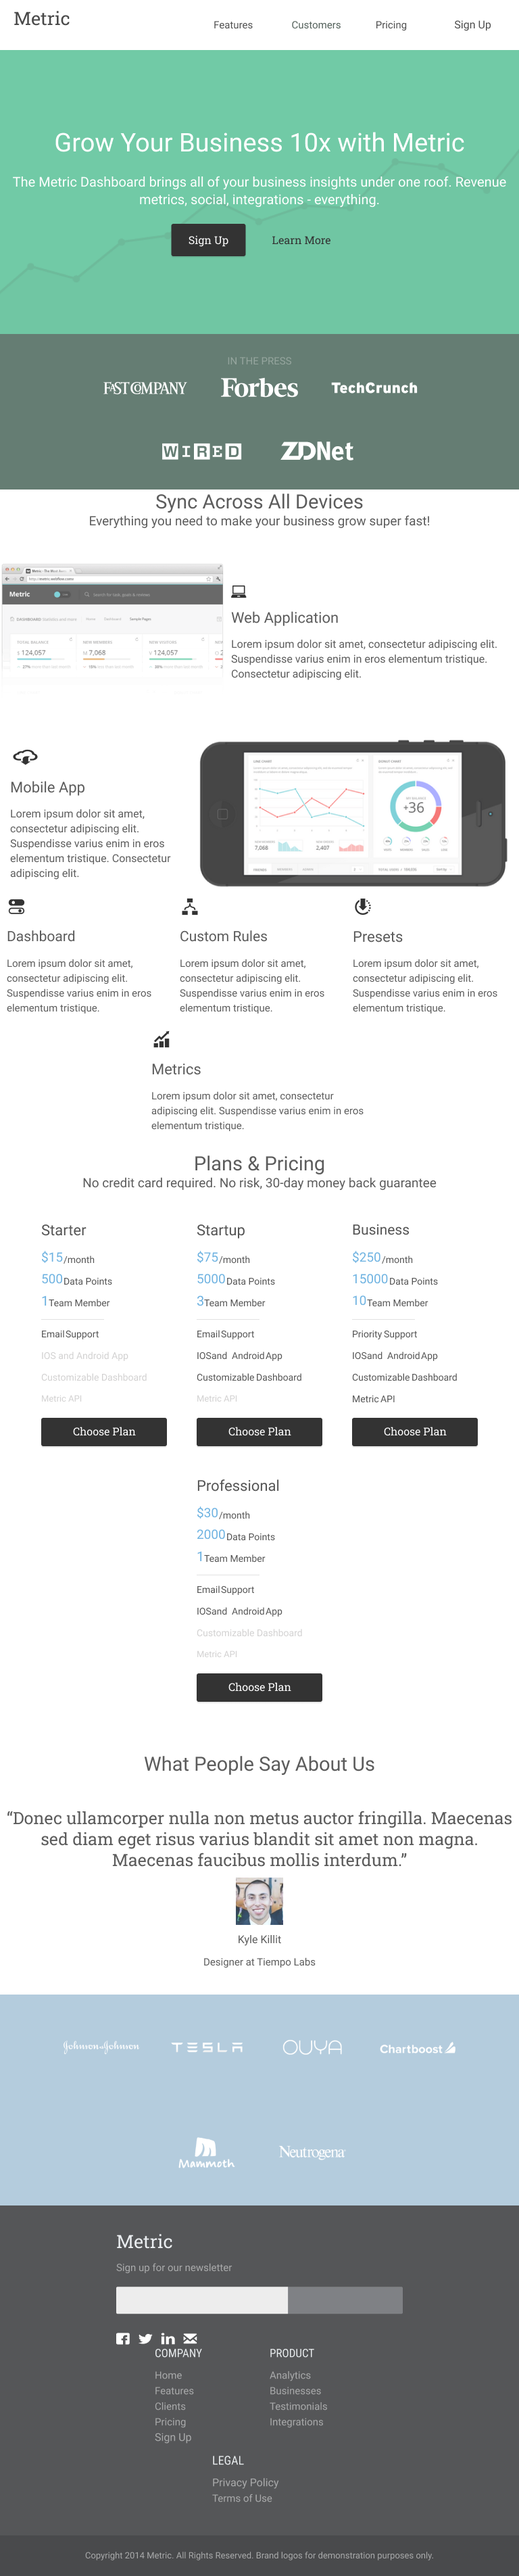
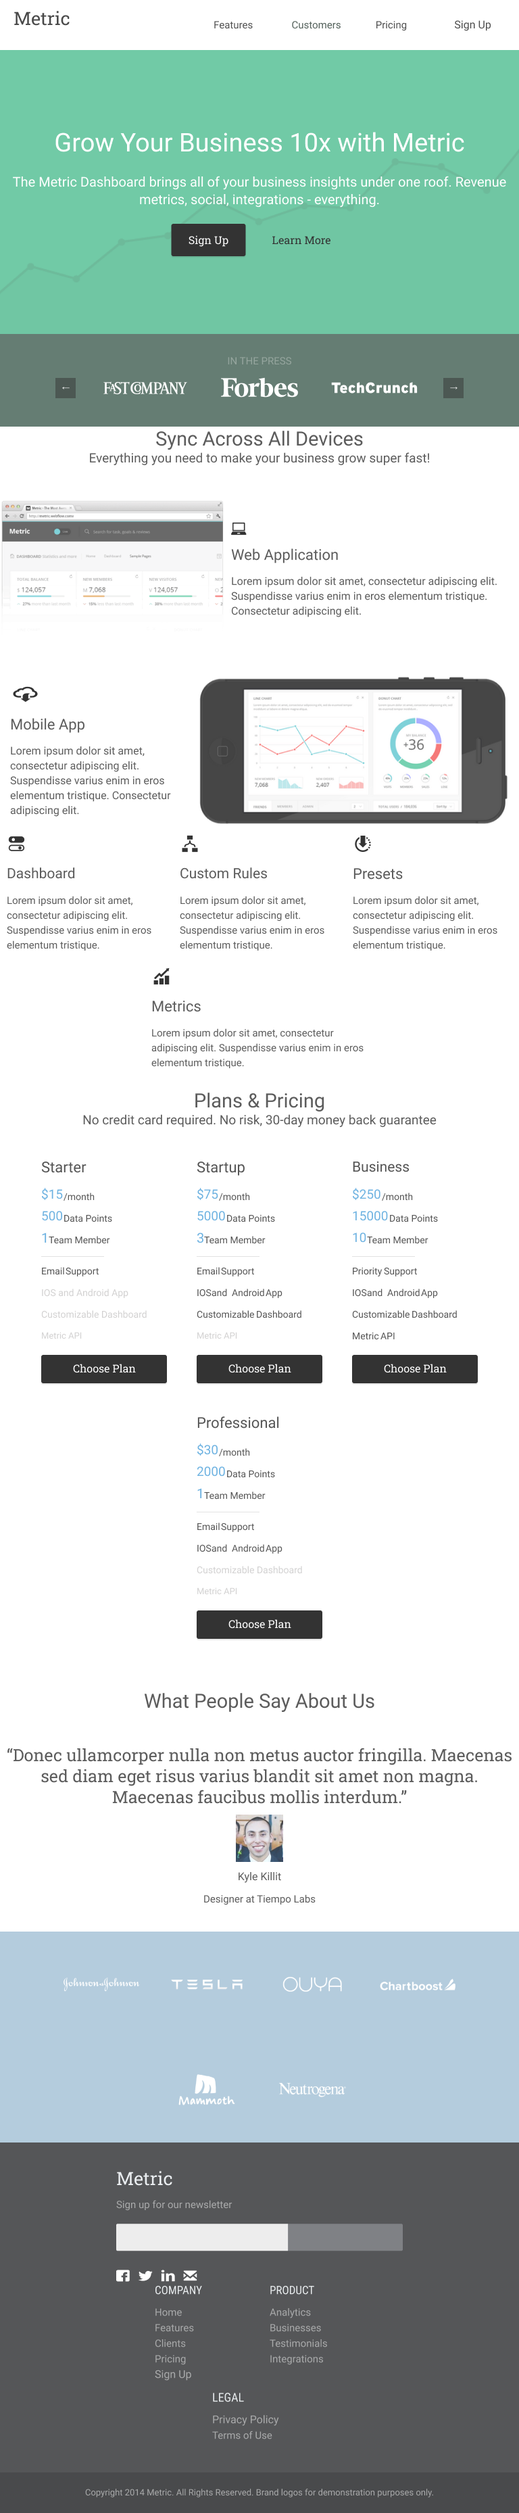
fix: change "in-the-pass" for Perfect Pixel

diff --git a/index.html b/index.html
@@ -51,15 +51,13 @@
 
         <section class="in-the-pass-section">
             <h3>IN THE PASS</h3>
-            <div class="slider-container">
+            <div class="images-in-the-pass">
                 <button class="slider-prev">←</button>
-                <div class="images-in-the-pass">
                     <img id = "img1-in-the-pass" src="images/in-the-pass-logos/Fastompany.png" alt="NotFound">
                     <img id = "img2-in-the-pass" src="images/in-the-pass-logos/forbes.png" alt="NotFound">
                     <img id = "img3-in-the-pass" src="images/in-the-pass-logos/TechCrinch.png" alt="NotFound">
                     <img id = "img4-in-the-pass" src="images/in-the-pass-logos/wired.png" alt="NotFound">
                     <img id = "img5-in-the-pass" src="images/in-the-pass-logos/ZDNet.png" alt="NotFound">
-                </div>
                 <button class="slider-next">→</button>
             </div>
         </section>

diff --git a/css/css.css b/css/css.css
@@ -80,6 +80,9 @@ body{
 .images-in-the-pass {
     display: flex;
     gap: 37px;
+    justify-content: center;
+    align-items: center;
+    align-content: center;
 }
 .sync-across-all-devices-section {
     display: flex;
